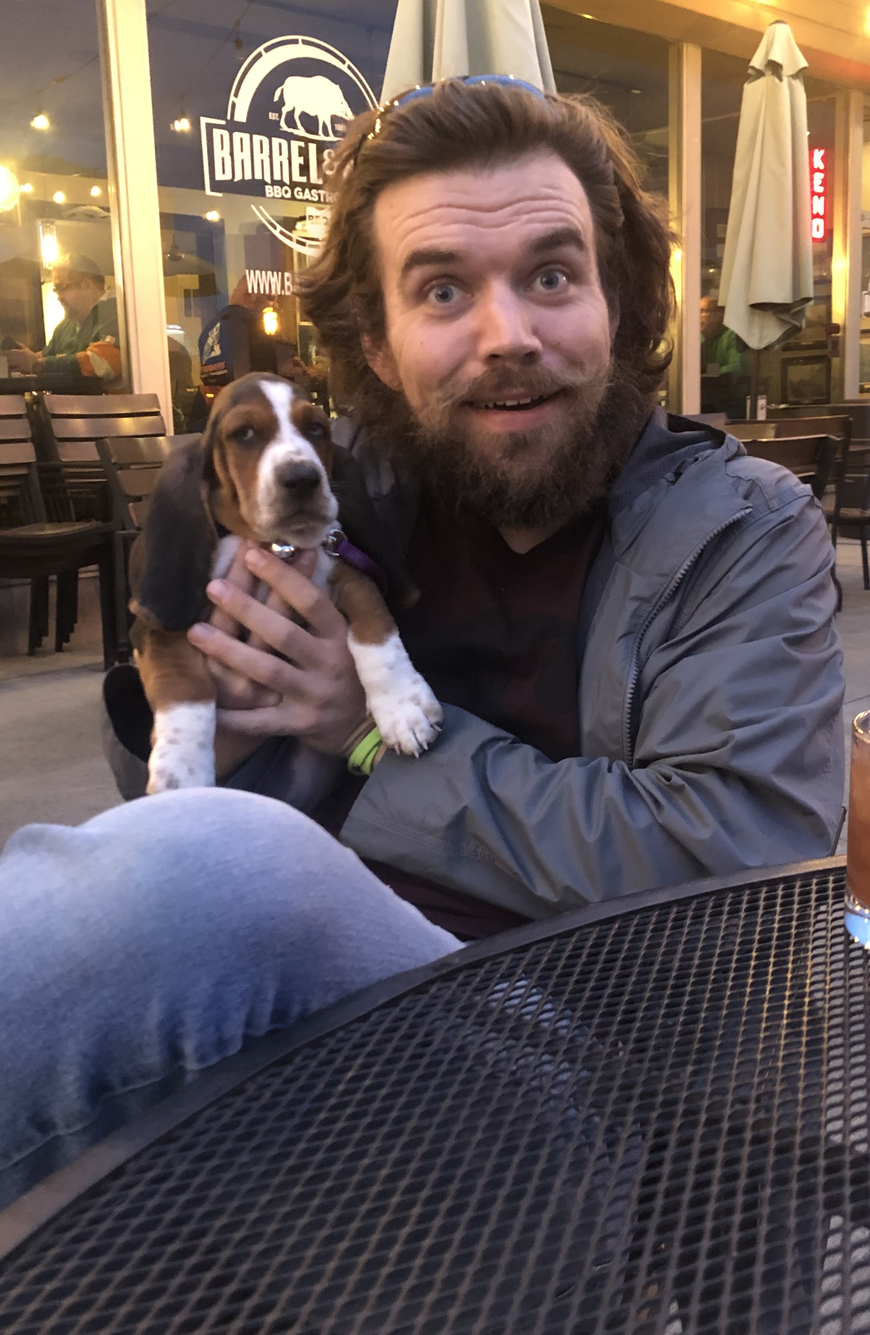
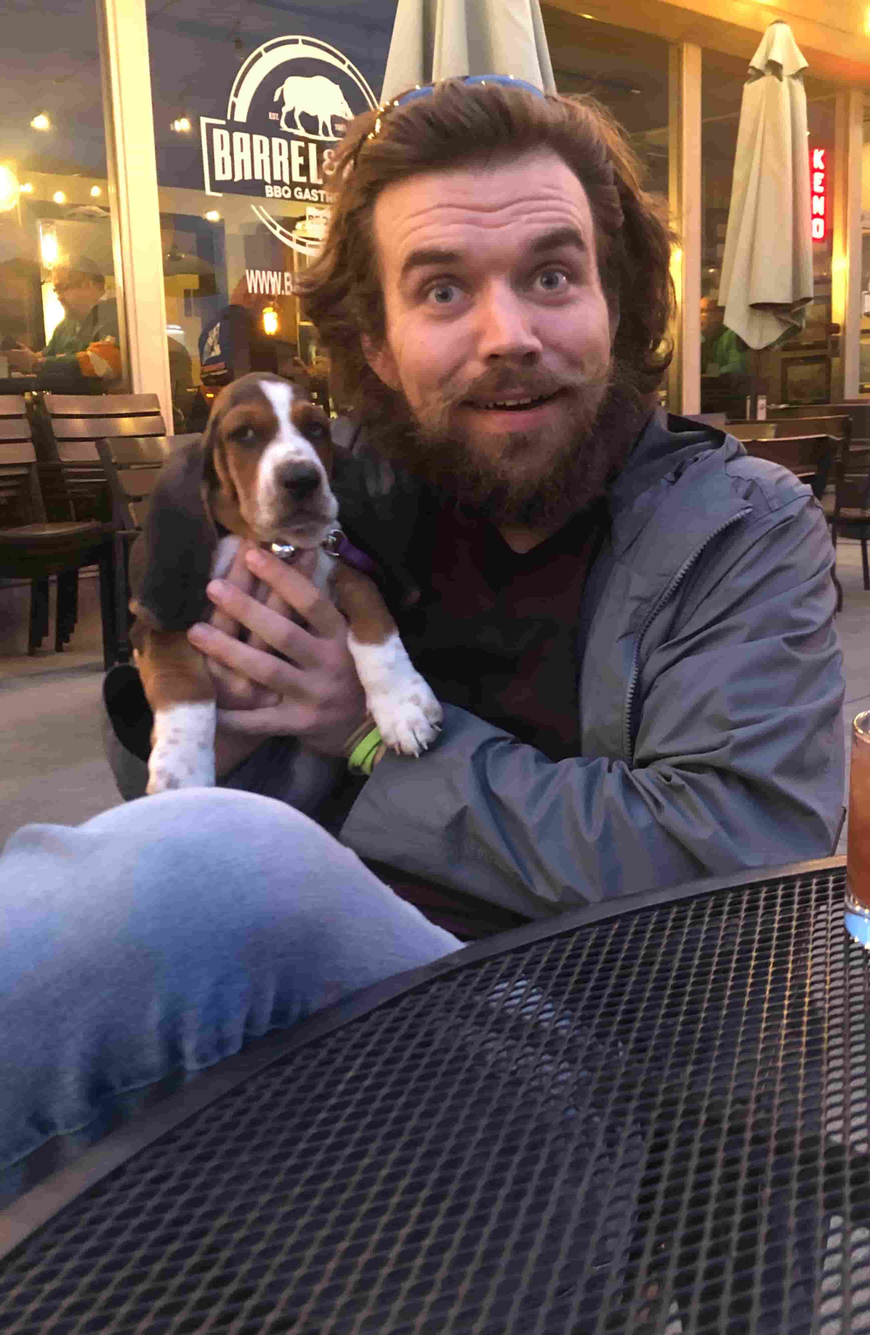
adding webp images from lighthouse and resizin some that we still kind of large changing contrast between h1s and h5 to h3 change

diff --git a/index.html b/index.html
@@ -42,7 +42,7 @@
         <div class="textSection1">
           <h2 id="aboutMe">About Me</h2>
           <img
-            src="photos/nicklaus-meadows-webpage-photo.jpg"
+            src="photos/nicklaus-meadows-webpage-photo.webp"
             alt="nicklaus meadows photograph"
             id="nickphoto"
           />
@@ -98,7 +98,7 @@
             aria-label="link to nicklaus meadows github account"
             target="_blank"
             ><img
-              src="photos/git.png"
+              src="photos/git.webp"
               alt="image of github website"
               id="github"
           /></a>
@@ -108,13 +108,13 @@
             aria-label="link to linkeedin nicklaus meadows profile"
             target="_blank"
             ><img
-              src="photos/linkedin.png"
+              src="photos/linkedin.webp"
               alt="image of linkedin website"
               id="linkedin"
           /></a>
           <a href="https://stackoverflow.co/teams/">
             <img
-              src="photos/soverflow.png"
+              src="photos/soverflow.webp"
               alt="image of soverflow website"
               id="soverflow"
           /></a>

diff --git a/styles.css b/styles.css
@@ -75,6 +75,7 @@ body {
     padding-left: 24px;
     background-color: darkslateblue;
     padding-right: 24px;
+    color: whitesmoke;
    
     
 }
